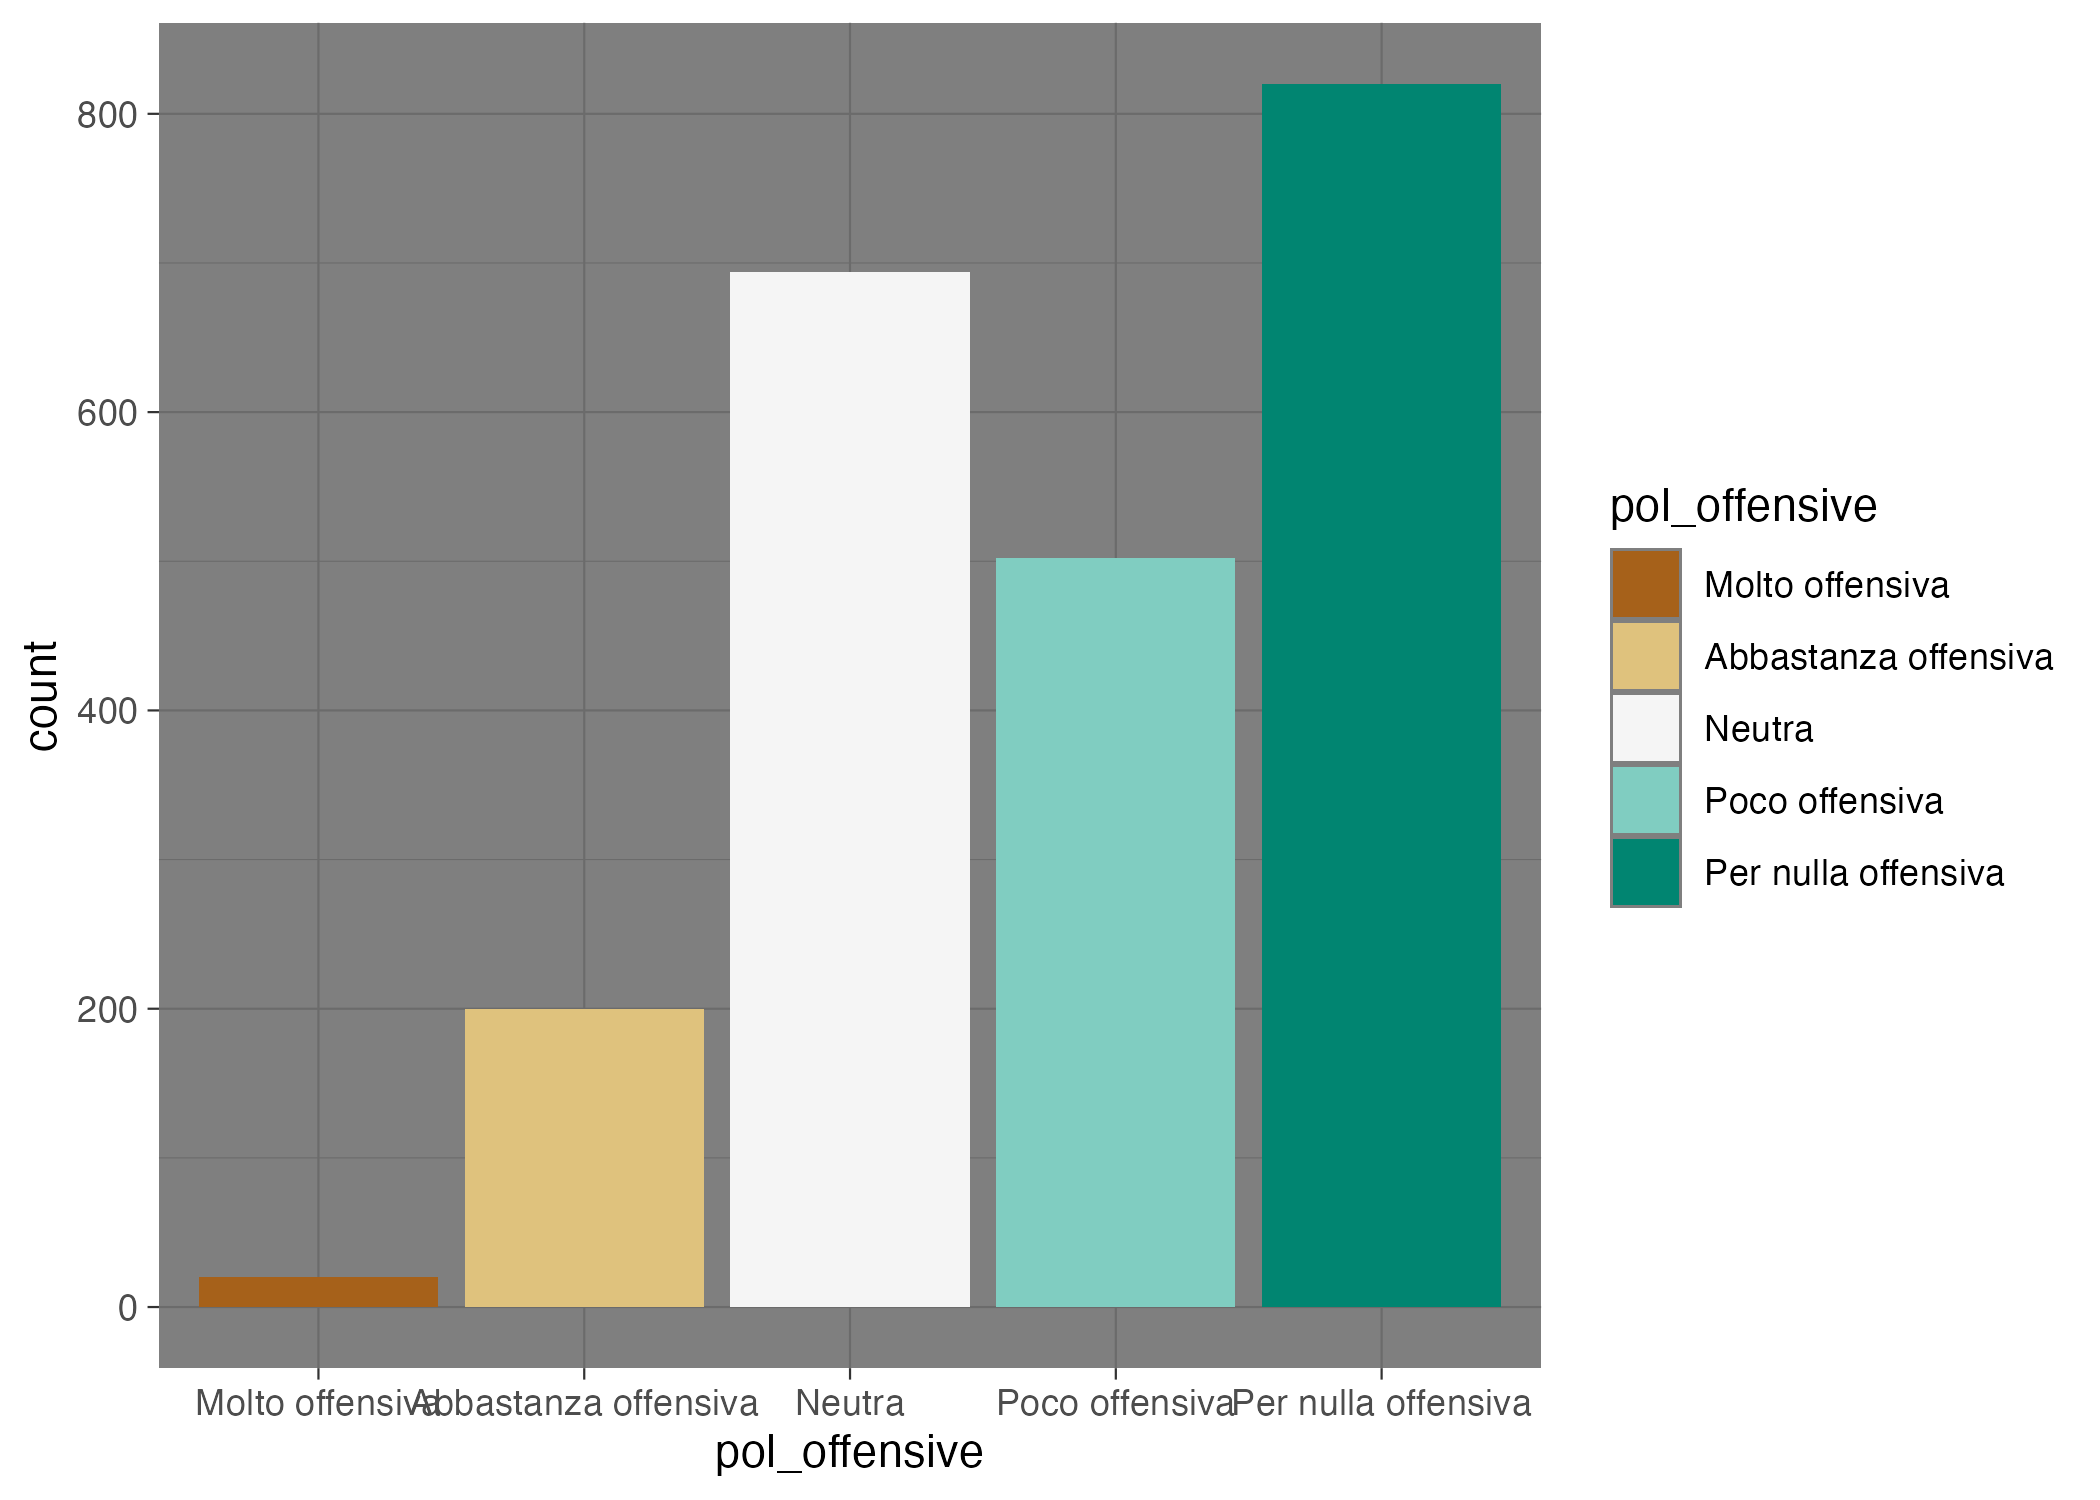
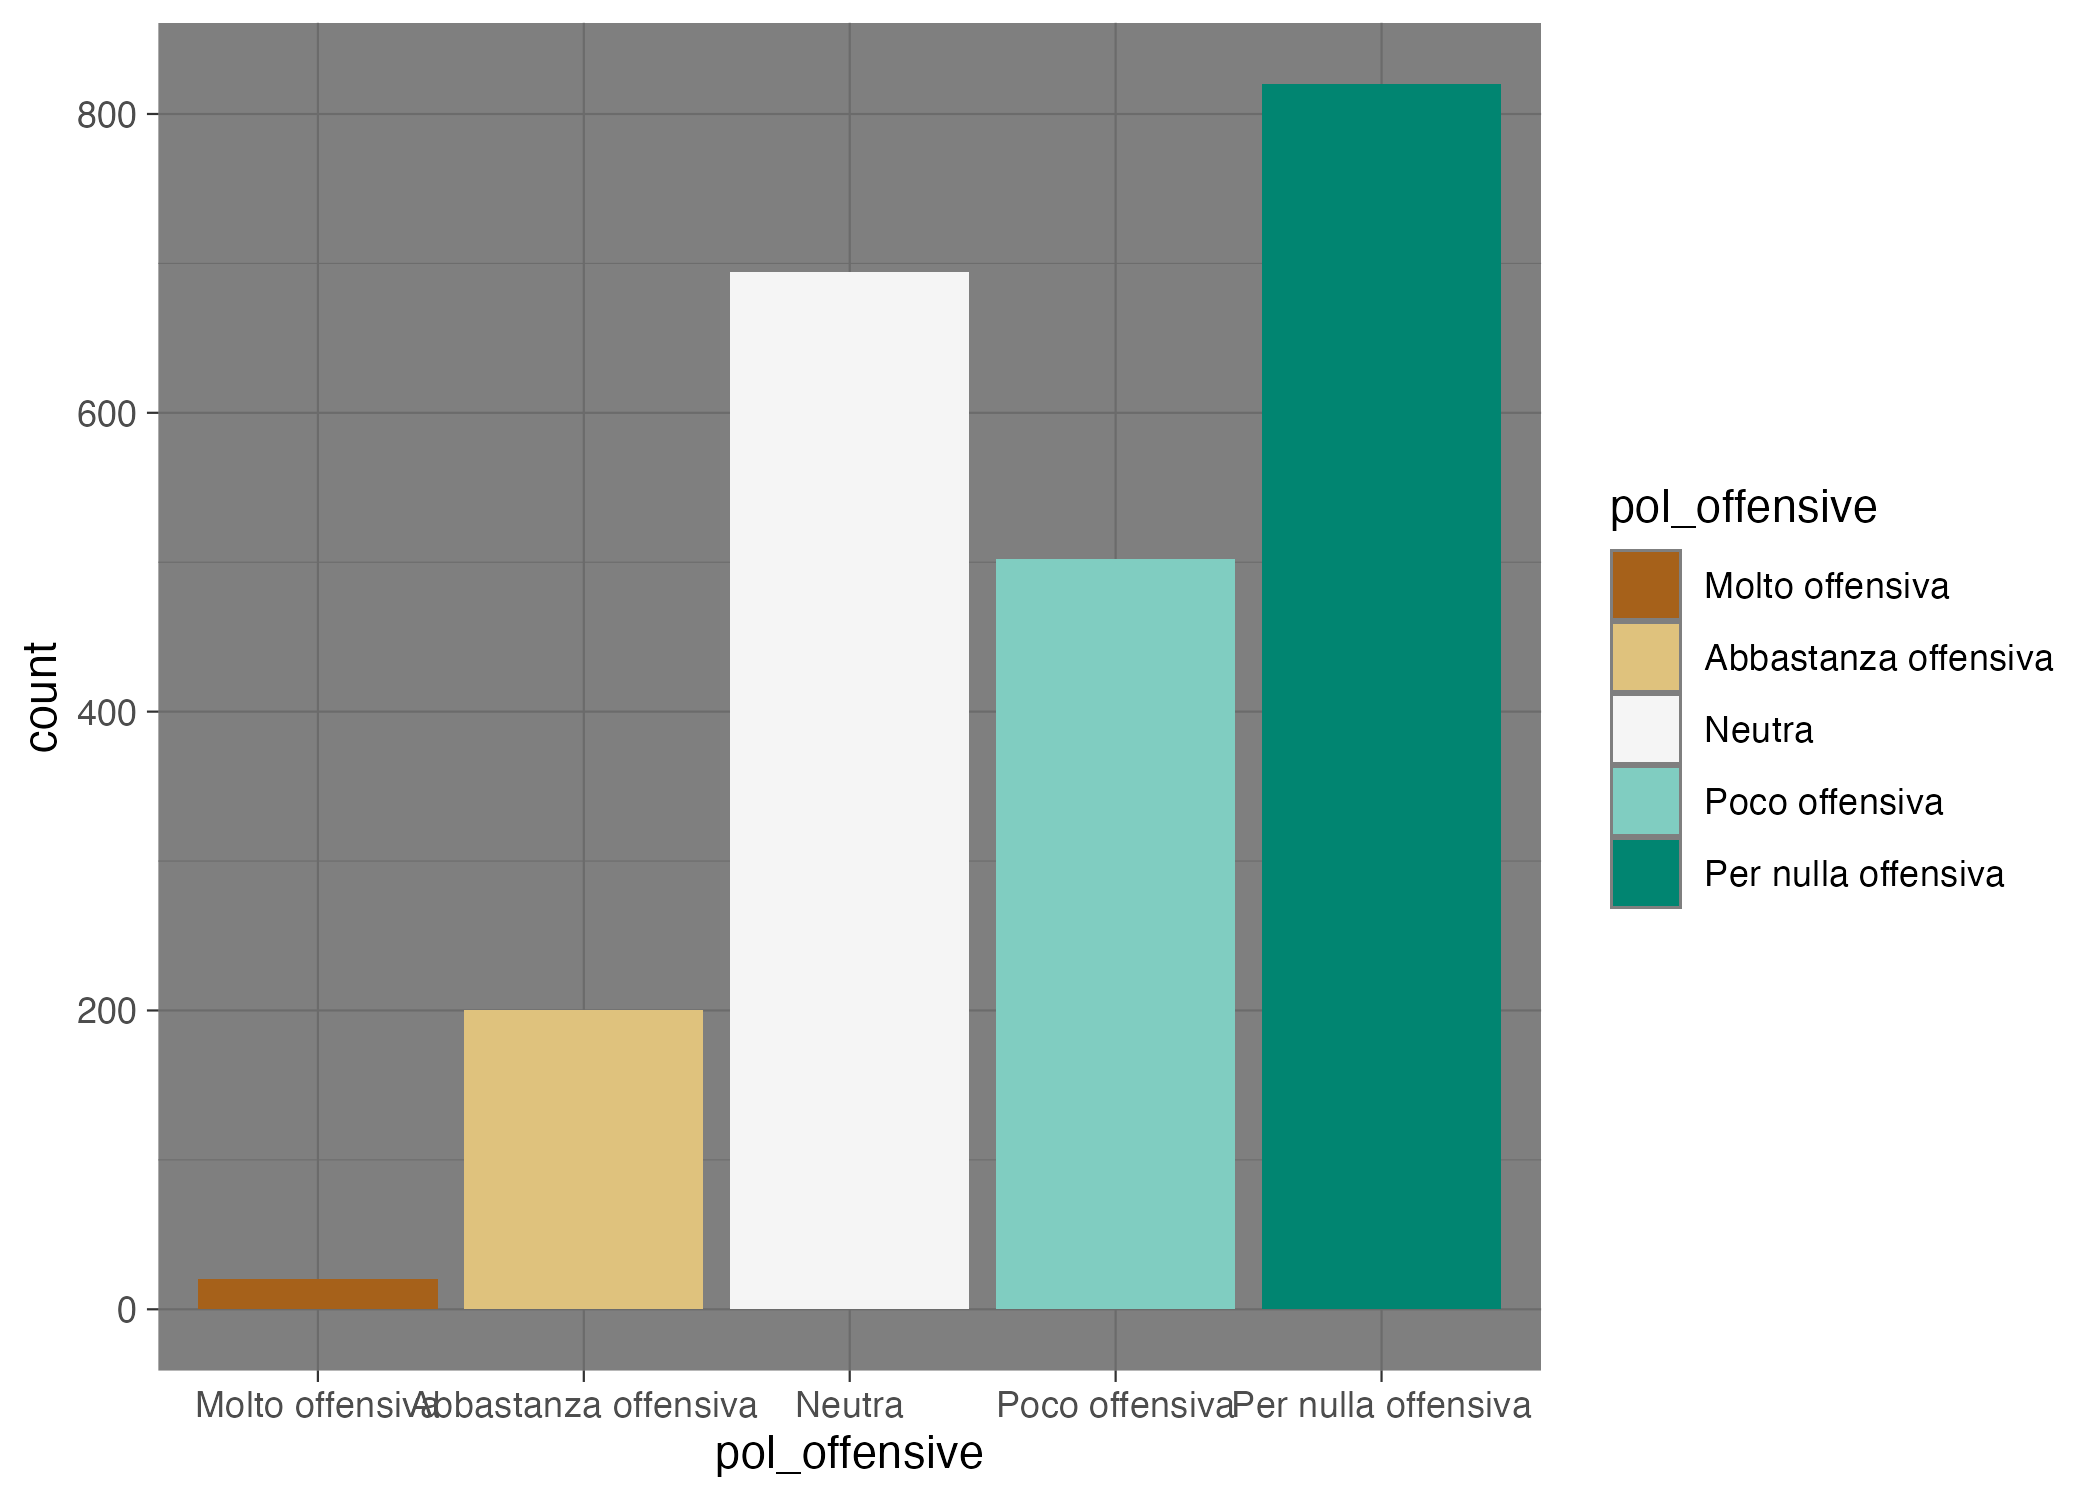
update data

diff --git a/README.md b/README.md
@@ -2,7 +2,8 @@
 
 [![DOI](https://zenodo.org/badge/DOI/10.5281/zenodo.15715939.svg)](https://doi.org/10.5281/zenodo.15715939)
 
-Welcome! This is the GitHub repository of the project *Vitality assessment of Gallo-Romance of Northern Italy*.
+Welcome!
+This is the GitHub repository of the project *Vitality assessment of Gallo-Romance of Northern Italy*.
 
 The data, code, figures and other materials in this repo are distributed with a [CC BY-NC 4.0](https://creativecommons.org/licenses/by-nc/4.0/) licence, unless otherwise stated.
 

diff --git a/CHANGELOG.md b/CHANGELOG.md
@@ -1,3 +1,7 @@
+# 2026-10-13
+
+- Downloaded latest data. SosciSurvey survey is closed and will not accept new responses.
+
 # 2023-06-15
 
--   Merged questions LA05 and LA06 (teaching variety).
+- Merged questions LA05 and LA06 (teaching variety).
